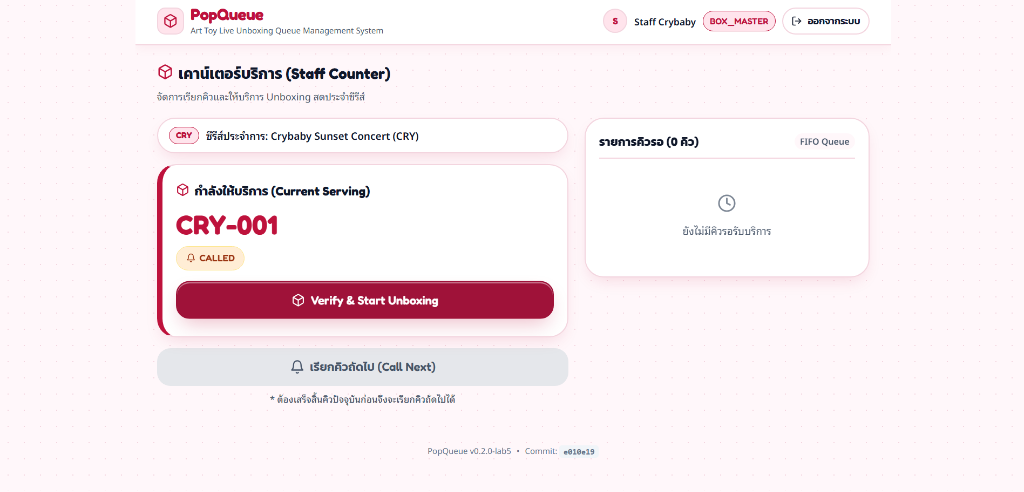
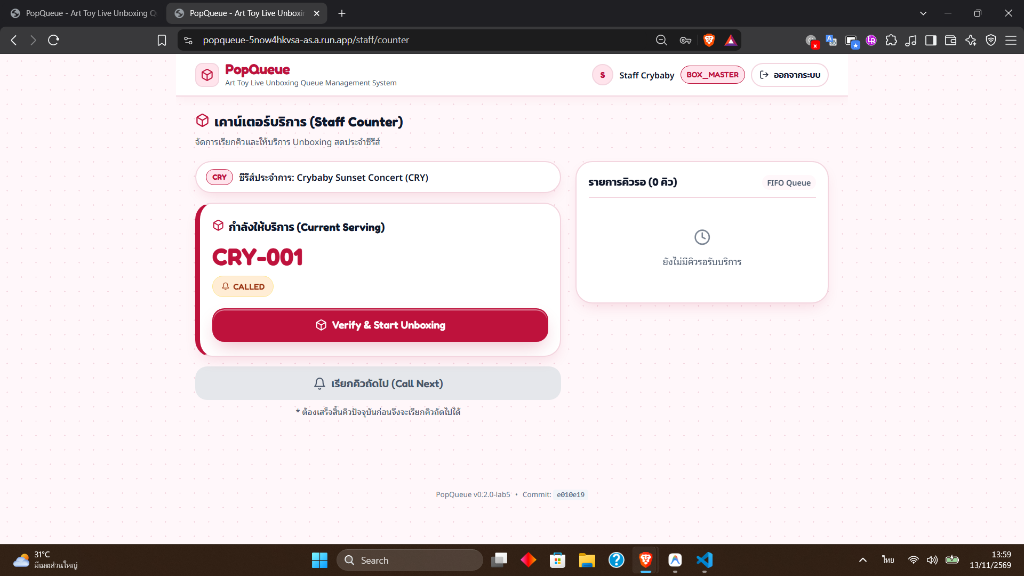
docs(lab5): update evidence screenshots with url bar and clarify docs (#31)

diff --git a/docs/labs/lab05/deployment.md b/docs/labs/lab05/deployment.md
@@ -294,7 +294,7 @@ Configured under GitHub Repository **Settings > Rules > Rulesets**:
 ### Episode 8: Live Domain Workflow, Cloud SQL Persistence Verification & Rollback Procedure (Lab 5 Issue 8 / GitHub Issue #31)
 - **Course Requirement:** R-03, R-04, R-07, R-08, R-11, C-04, C-05, C-06
 - **Branch:** `feature/lab5-i08-persistence-verify` targeting `lab5-staging`
-- **Authors & Reviewers:** Lead: `@Theerawat82` / Reviewer: `@apfirst13`
+- **Authors & Reviewers:** Pair collaboration. Work was shared between @Theerawat82 and @apfirst13 and roles were swapped during execution; the PR was opened by @apfirst13 and reviewed/approved by @Theerawat82.
 - **Verification Check C-04: Public Domain Workflow Demonstration:**
   - Demonstrated live on public Cloud Run domain (`https://popqueue-5now4hkvsa-as.a.run.app`).
   - **Step 1 (Collector Join):** Collector authenticated as `collector1` and joined `CRY` series, generating live queue ticket **`CRY-001`** in `WAITING` state.
@@ -308,7 +308,7 @@ Configured under GitHub Repository **Settings > Rules > Rulesets**:
 - **Verification Check C-05: Cloud SQL Data Persistence Verification:**
   - Verified persistence of actual ticket ID **`CRY-001`** across three operational events proving durable SSD storage:
     1. **Scale-Down to 0 (Cold Start):** Verified ticket remains intact when instances scale down to 0 and boot fresh on incoming request.
-    2. **Cloud SQL Database Restart:** Executed `gcloud sql instances restart popqueue-pg --project=cpe334-bfteam`. Verified database recovered to `RUNNABLE` and ticket `CRY-001` remained completely intact.
+    2. **Cloud SQL Database Restart:** Restarted instance `popqueue-pg` via the Google Cloud Console (Cloud SQL → Overview → Restart; completion notice "Restarted popqueue-pg 12:40:44 PM GMT+7"). Verified the instance returned to `RUNNABLE` and ticket `CRY-001` remained intact in `CALLED` state.
     3. **Service Redeployment:** Triggered automated redeployment via GitHub Actions CD pipeline. Verified new revision connects to Cloud SQL and serves `CRY-001` without data loss.
   - **Archived Evidence:**
     - `docs/labs/lab05/evidence/c05-test1-scale-down-persistence.png`
